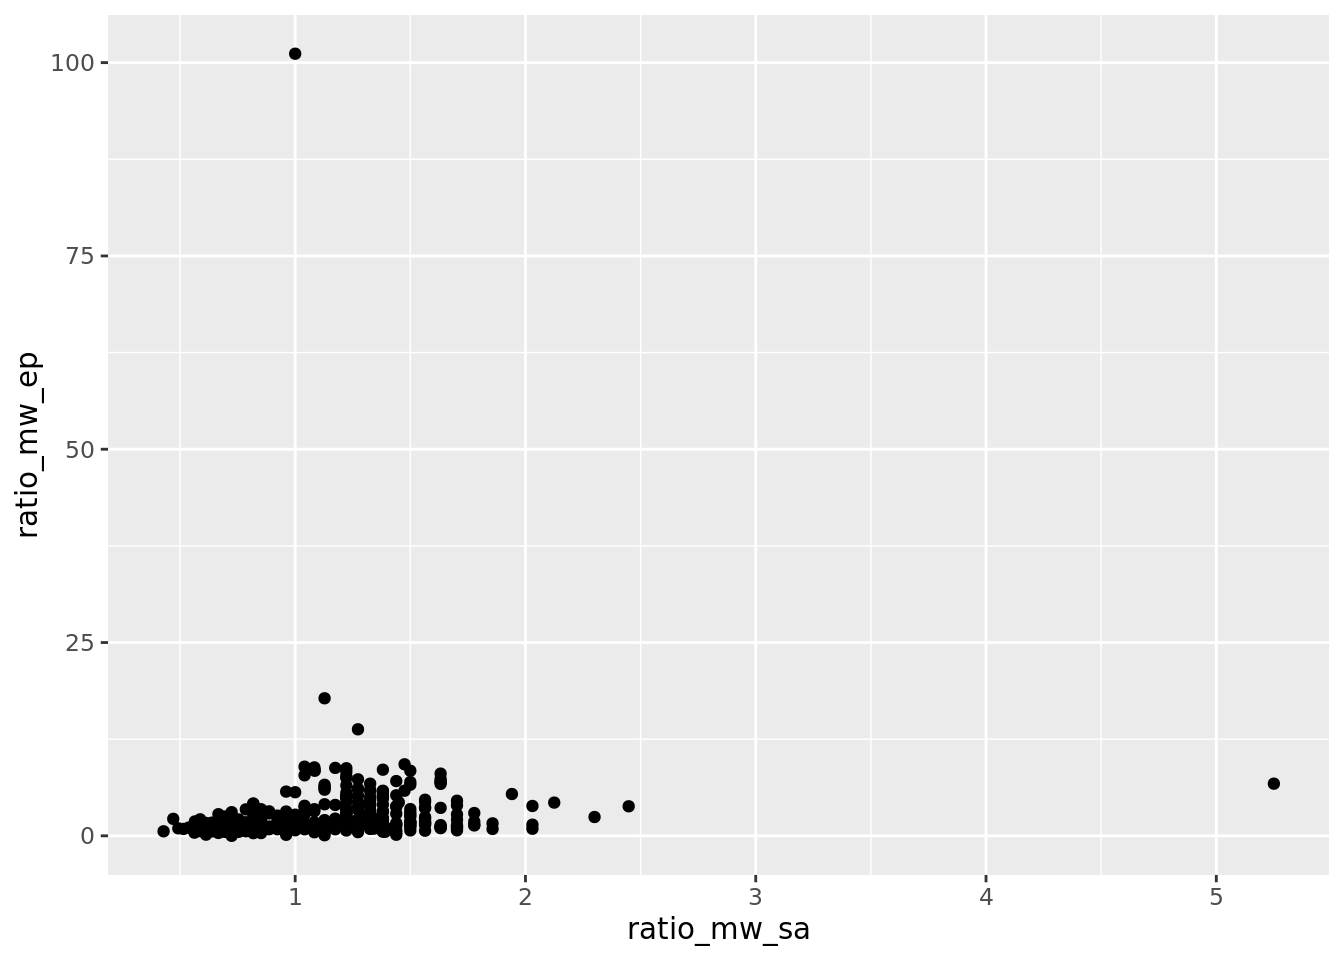
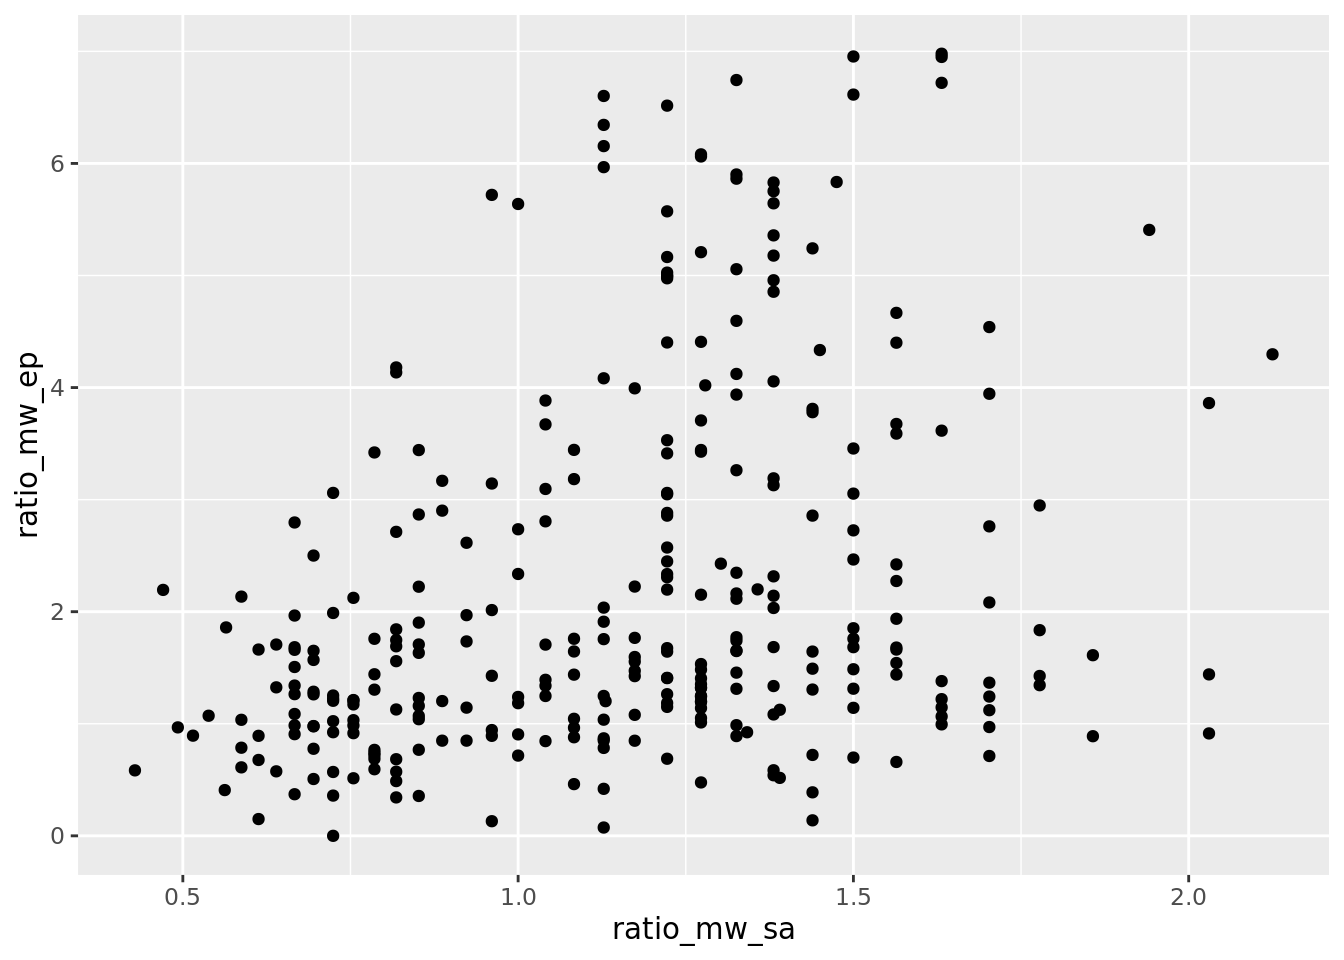
no outliers

diff --git a/docs/report.html b/docs/report.html
@@ -365,17 +365,57 @@ $ ratio_mw_ep         &lt;dbl&gt; 1.1985337, 2.4287042, 1.3413262, 1.3052437, 6.
 <div class="sourceCode cell-code" id="cb10"><pre class="sourceCode r code-with-copy"><code class="sourceCode r"><span id="cb10-1"><a href="#cb10-1" aria-hidden="true" tabindex="-1"></a>eada_divisionI <span class="ot">&lt;-</span> eada <span class="sc">|&gt;</span></span>
 <span id="cb10-2"><a href="#cb10-2" aria-hidden="true" tabindex="-1"></a>  <span class="fu">filter</span>(classification_name <span class="sc">==</span> <span class="st">"NCAA Division I-FCS"</span> <span class="sc">|</span></span>
 <span id="cb10-3"><a href="#cb10-3" aria-hidden="true" tabindex="-1"></a>         classification_name <span class="sc">==</span> <span class="st">"NCAA Division I-FBS"</span> <span class="sc">|</span></span>
-<span id="cb10-4"><a href="#cb10-4" aria-hidden="true" tabindex="-1"></a>         classification_name <span class="sc">==</span> <span class="st">"NCAA Division I without football"</span>)</span></code><button title="Copy to Clipboard" class="code-copy-button"><i class="bi"></i></button></pre></div>
+<span id="cb10-4"><a href="#cb10-4" aria-hidden="true" tabindex="-1"></a>         classification_name <span class="sc">==</span> <span class="st">"NCAA Division I without football"</span>)</span>
+<span id="cb10-5"><a href="#cb10-5" aria-hidden="true" tabindex="-1"></a></span>
+<span id="cb10-6"><a href="#cb10-6" aria-hidden="true" tabindex="-1"></a></span>
+<span id="cb10-7"><a href="#cb10-7" aria-hidden="true" tabindex="-1"></a>Q1_divisionI_ep <span class="ot">&lt;-</span> <span class="fu">quantile</span>(eada_divisionI<span class="sc">$</span>ratio_mw_ep, .<span class="dv">25</span>)</span>
+<span id="cb10-8"><a href="#cb10-8" aria-hidden="true" tabindex="-1"></a>Q1_divisionI_sa <span class="ot">&lt;-</span> <span class="fu">quantile</span>(eada_divisionI<span class="sc">$</span>ratio_mw_sa, .<span class="dv">25</span>)</span>
+<span id="cb10-9"><a href="#cb10-9" aria-hidden="true" tabindex="-1"></a></span>
+<span id="cb10-10"><a href="#cb10-10" aria-hidden="true" tabindex="-1"></a>Q3_divisionI_ep <span class="ot">&lt;-</span> <span class="fu">quantile</span>(eada_divisionI<span class="sc">$</span>ratio_mw_ep, .<span class="dv">75</span>)</span>
+<span id="cb10-11"><a href="#cb10-11" aria-hidden="true" tabindex="-1"></a>Q3_divisionI_sa <span class="ot">&lt;-</span> <span class="fu">quantile</span>(eada_divisionI<span class="sc">$</span>ratio_mw_sa, .<span class="dv">75</span>)</span>
+<span id="cb10-12"><a href="#cb10-12" aria-hidden="true" tabindex="-1"></a></span>
+<span id="cb10-13"><a href="#cb10-13" aria-hidden="true" tabindex="-1"></a>IQR_divisionI_ep <span class="ot">&lt;-</span> <span class="fu">IQR</span>(eada_divisionI<span class="sc">$</span>ratio_mw_ep)</span>
+<span id="cb10-14"><a href="#cb10-14" aria-hidden="true" tabindex="-1"></a>IQR_divisionI_sa <span class="ot">&lt;-</span> <span class="fu">IQR</span>(eada_divisionI<span class="sc">$</span>ratio_mw_sa)</span>
+<span id="cb10-15"><a href="#cb10-15" aria-hidden="true" tabindex="-1"></a></span>
+<span id="cb10-16"><a href="#cb10-16" aria-hidden="true" tabindex="-1"></a>eada_divisionI <span class="ot">&lt;-</span> <span class="fu">subset</span>(eada_divisionI, eada_divisionI<span class="sc">$</span>ratio_mw_ep<span class="sc">&gt;</span> (Q1_divisionI_ep <span class="sc">-</span> <span class="fl">1.5</span><span class="sc">*</span>IQR_divisionI_ep) <span class="sc">&amp;</span> eada_divisionI<span class="sc">$</span>ratio_mw_ep<span class="sc">&lt;</span> (Q3_divisionI_ep <span class="sc">+</span> <span class="fl">1.5</span><span class="sc">*</span>IQR_divisionI_ep))</span>
+<span id="cb10-17"><a href="#cb10-17" aria-hidden="true" tabindex="-1"></a></span>
+<span id="cb10-18"><a href="#cb10-18" aria-hidden="true" tabindex="-1"></a>eada_divisionI <span class="ot">&lt;-</span> <span class="fu">subset</span>(eada_divisionI, eada_divisionI<span class="sc">$</span>ratio_mw_sa<span class="sc">&gt;</span> (Q1_divisionI_sa <span class="sc">-</span> <span class="fl">1.5</span><span class="sc">*</span>IQR_divisionI_sa) <span class="sc">&amp;</span> eada_divisionI<span class="sc">$</span>ratio_mw_sa<span class="sc">&lt;</span> (Q3_divisionI_sa <span class="sc">+</span> <span class="fl">1.5</span><span class="sc">*</span>IQR_divisionI_sa))</span></code><button title="Copy to Clipboard" class="code-copy-button"><i class="bi"></i></button></pre></div>
 </div>
 <div class="cell">
 <div class="sourceCode cell-code" id="cb11"><pre class="sourceCode r code-with-copy"><code class="sourceCode r"><span id="cb11-1"><a href="#cb11-1" aria-hidden="true" tabindex="-1"></a>eada_divisionII <span class="ot">&lt;-</span> eada <span class="sc">|&gt;</span></span>
 <span id="cb11-2"><a href="#cb11-2" aria-hidden="true" tabindex="-1"></a>  <span class="fu">filter</span>(classification_name <span class="sc">==</span> <span class="st">"NCAA Division II with football"</span> <span class="sc">|</span></span>
-<span id="cb11-3"><a href="#cb11-3" aria-hidden="true" tabindex="-1"></a>        classification_name <span class="sc">==</span> <span class="st">"NCAA Division II without football"</span>)</span></code><button title="Copy to Clipboard" class="code-copy-button"><i class="bi"></i></button></pre></div>
+<span id="cb11-3"><a href="#cb11-3" aria-hidden="true" tabindex="-1"></a>        classification_name <span class="sc">==</span> <span class="st">"NCAA Division II without football"</span>)</span>
+<span id="cb11-4"><a href="#cb11-4" aria-hidden="true" tabindex="-1"></a></span>
+<span id="cb11-5"><a href="#cb11-5" aria-hidden="true" tabindex="-1"></a>Q1_divisionII_ep <span class="ot">&lt;-</span> <span class="fu">quantile</span>(eada_divisionII<span class="sc">$</span>ratio_mw_ep, .<span class="dv">25</span>)</span>
+<span id="cb11-6"><a href="#cb11-6" aria-hidden="true" tabindex="-1"></a>Q1_divisionII_sa <span class="ot">&lt;-</span> <span class="fu">quantile</span>(eada_divisionII<span class="sc">$</span>ratio_mw_sa, .<span class="dv">25</span>)</span>
+<span id="cb11-7"><a href="#cb11-7" aria-hidden="true" tabindex="-1"></a></span>
+<span id="cb11-8"><a href="#cb11-8" aria-hidden="true" tabindex="-1"></a>Q3_divisionII_ep <span class="ot">&lt;-</span> <span class="fu">quantile</span>(eada_divisionII<span class="sc">$</span>ratio_mw_ep, .<span class="dv">75</span>)</span>
+<span id="cb11-9"><a href="#cb11-9" aria-hidden="true" tabindex="-1"></a>Q3_divisionII_sa <span class="ot">&lt;-</span> <span class="fu">quantile</span>(eada_divisionII<span class="sc">$</span>ratio_mw_sa, .<span class="dv">75</span>)</span>
+<span id="cb11-10"><a href="#cb11-10" aria-hidden="true" tabindex="-1"></a></span>
+<span id="cb11-11"><a href="#cb11-11" aria-hidden="true" tabindex="-1"></a>IQR_divisionII_ep <span class="ot">&lt;-</span> <span class="fu">IQR</span>(eada_divisionII<span class="sc">$</span>ratio_mw_ep)</span>
+<span id="cb11-12"><a href="#cb11-12" aria-hidden="true" tabindex="-1"></a>IQR_divisionII_sa <span class="ot">&lt;-</span> <span class="fu">IQR</span>(eada_divisionII<span class="sc">$</span>ratio_mw_sa)</span>
+<span id="cb11-13"><a href="#cb11-13" aria-hidden="true" tabindex="-1"></a></span>
+<span id="cb11-14"><a href="#cb11-14" aria-hidden="true" tabindex="-1"></a>eada_divisionII <span class="ot">&lt;-</span> <span class="fu">subset</span>(eada_divisionII, eada_divisionII<span class="sc">$</span>ratio_mw_ep<span class="sc">&gt;</span> (Q1_divisionII_ep <span class="sc">-</span> <span class="fl">1.5</span><span class="sc">*</span>IQR_divisionII_ep) <span class="sc">&amp;</span> eada_divisionII<span class="sc">$</span>ratio_mw_ep<span class="sc">&lt;</span> (Q3_divisionII_ep <span class="sc">+</span> <span class="fl">1.5</span><span class="sc">*</span>IQR_divisionII_ep))</span>
+<span id="cb11-15"><a href="#cb11-15" aria-hidden="true" tabindex="-1"></a></span>
+<span id="cb11-16"><a href="#cb11-16" aria-hidden="true" tabindex="-1"></a>eada_divisionII <span class="ot">&lt;-</span> <span class="fu">subset</span>(eada_divisionII, eada_divisionII<span class="sc">$</span>ratio_mw_sa<span class="sc">&gt;</span> (Q1_divisionII_sa <span class="sc">-</span> <span class="fl">1.5</span><span class="sc">*</span>IQR_divisionII_sa) <span class="sc">&amp;</span> eada_divisionII<span class="sc">$</span>ratio_mw_sa<span class="sc">&lt;</span> (Q3_divisionII_sa <span class="sc">+</span> <span class="fl">1.5</span><span class="sc">*</span>IQR_divisionII_sa))</span></code><button title="Copy to Clipboard" class="code-copy-button"><i class="bi"></i></button></pre></div>
 </div>
 <div class="cell">
 <div class="sourceCode cell-code" id="cb12"><pre class="sourceCode r code-with-copy"><code class="sourceCode r"><span id="cb12-1"><a href="#cb12-1" aria-hidden="true" tabindex="-1"></a>eada_divisionIII <span class="ot">&lt;-</span> eada <span class="sc">|&gt;</span></span>
 <span id="cb12-2"><a href="#cb12-2" aria-hidden="true" tabindex="-1"></a>  <span class="fu">filter</span>(classification_name <span class="sc">==</span> <span class="st">"NCAA Division III with football"</span> <span class="sc">|</span></span>
-<span id="cb12-3"><a href="#cb12-3" aria-hidden="true" tabindex="-1"></a>         classification_name <span class="sc">==</span> <span class="st">"NCAA Division III without football"</span>)</span></code><button title="Copy to Clipboard" class="code-copy-button"><i class="bi"></i></button></pre></div>
+<span id="cb12-3"><a href="#cb12-3" aria-hidden="true" tabindex="-1"></a>         classification_name <span class="sc">==</span> <span class="st">"NCAA Division III without football"</span>)</span>
+<span id="cb12-4"><a href="#cb12-4" aria-hidden="true" tabindex="-1"></a></span>
+<span id="cb12-5"><a href="#cb12-5" aria-hidden="true" tabindex="-1"></a>Q1_divisionIII_ep <span class="ot">&lt;-</span> <span class="fu">quantile</span>(eada_divisionIII<span class="sc">$</span>ratio_mw_ep, .<span class="dv">25</span>)</span>
+<span id="cb12-6"><a href="#cb12-6" aria-hidden="true" tabindex="-1"></a>Q1_divisionIII_sa <span class="ot">&lt;-</span> <span class="fu">quantile</span>(eada_divisionIII<span class="sc">$</span>ratio_mw_sa, .<span class="dv">25</span>)</span>
+<span id="cb12-7"><a href="#cb12-7" aria-hidden="true" tabindex="-1"></a></span>
+<span id="cb12-8"><a href="#cb12-8" aria-hidden="true" tabindex="-1"></a>Q3_divisionIII_ep <span class="ot">&lt;-</span> <span class="fu">quantile</span>(eada_divisionIII<span class="sc">$</span>ratio_mw_ep, .<span class="dv">75</span>)</span>
+<span id="cb12-9"><a href="#cb12-9" aria-hidden="true" tabindex="-1"></a>Q3_divisionIII_sa <span class="ot">&lt;-</span> <span class="fu">quantile</span>(eada_divisionIII<span class="sc">$</span>ratio_mw_sa, .<span class="dv">75</span>)</span>
+<span id="cb12-10"><a href="#cb12-10" aria-hidden="true" tabindex="-1"></a></span>
+<span id="cb12-11"><a href="#cb12-11" aria-hidden="true" tabindex="-1"></a>IQR_divisionIII_ep <span class="ot">&lt;-</span> <span class="fu">IQR</span>(eada_divisionIII<span class="sc">$</span>ratio_mw_ep)</span>
+<span id="cb12-12"><a href="#cb12-12" aria-hidden="true" tabindex="-1"></a>IQR_divisionIII_sa <span class="ot">&lt;-</span> <span class="fu">IQR</span>(eada_divisionIII<span class="sc">$</span>ratio_mw_sa)</span>
+<span id="cb12-13"><a href="#cb12-13" aria-hidden="true" tabindex="-1"></a></span>
+<span id="cb12-14"><a href="#cb12-14" aria-hidden="true" tabindex="-1"></a>eada_divisionIII <span class="ot">&lt;-</span> <span class="fu">subset</span>(eada_divisionIII, eada_divisionIII<span class="sc">$</span>ratio_mw_ep<span class="sc">&gt;</span> (Q1_divisionIII_ep <span class="sc">-</span> <span class="fl">1.5</span><span class="sc">*</span>IQR_divisionIII_ep) <span class="sc">&amp;</span> eada_divisionIII<span class="sc">$</span>ratio_mw_ep<span class="sc">&lt;</span> (Q3_divisionIII_ep <span class="sc">+</span> <span class="fl">1.5</span><span class="sc">*</span>IQR_divisionIII_ep))</span>
+<span id="cb12-15"><a href="#cb12-15" aria-hidden="true" tabindex="-1"></a></span>
+<span id="cb12-16"><a href="#cb12-16" aria-hidden="true" tabindex="-1"></a>eada_divisionIII <span class="ot">&lt;-</span> <span class="fu">subset</span>(eada_divisionIII, eada_divisionIII<span class="sc">$</span>ratio_mw_sa<span class="sc">&gt;</span> (Q1_divisionIII_sa <span class="sc">-</span> <span class="fl">1.5</span><span class="sc">*</span>IQR_divisionIII_sa) <span class="sc">&amp;</span> eada_divisionIII<span class="sc">$</span>ratio_mw_sa<span class="sc">&lt;</span> (Q3_divisionIII_sa <span class="sc">+</span> <span class="fl">1.5</span><span class="sc">*</span>IQR_divisionIII_sa))</span></code><button title="Copy to Clipboard" class="code-copy-button"><i class="bi"></i></button></pre></div>
 </div>
 <div class="cell">
 <div class="sourceCode cell-code" id="cb13"><pre class="sourceCode r code-with-copy"><code class="sourceCode r"><span id="cb13-1"><a href="#cb13-1" aria-hidden="true" tabindex="-1"></a><span class="co">#label: main-visualization</span></span>
